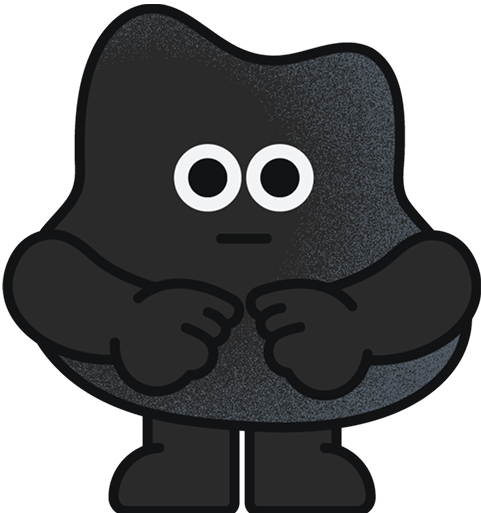
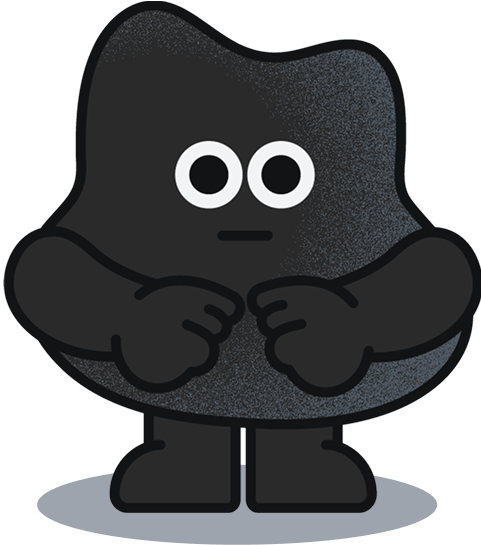
fix: button variant 추가, 방석 있는 이미지로 변경

diff --git a/src/components/Button.tsx b/src/components/Button.tsx
@@ -4,6 +4,7 @@ import { cn } from "@/utils/cn";
 
 interface ButtonProps extends ButtonHTMLAttributes<HTMLButtonElement> {
   asChild?: boolean;
+  variant?: "black" | "white";
 }
 
 export default function Button({
@@ -11,6 +12,7 @@ export default function Button({
   disabled,
   children,
   asChild = false,
+  variant = "black",
   ...props
 }: ButtonProps) {
   const Component = asChild ? Slot.Slot : "button";
@@ -18,11 +20,14 @@ export default function Button({
   return (
     <Component
       className={cn(
-        "w-fit px-9 py-4 rounded-[32px] transition-colors",
+        "w-fit px-9 py-4 rounded-[32px] transition-colors t-p-14-sb",
         "inline-flex items-center justify-center gap-[10px]",
         "shadow-[2px_2px_16px_0_rgba(0,0,0,0.4)]",
         {
-          "bg-neutral-800 text-neutral-100 active:bg-neutral-900": !disabled,
+          "bg-neutral-800 text-neutral-100 active:bg-neutral-900":
+            !disabled && variant === "black",
+          "bg-neutral-100 text-neutral-800 active:bg-neutral-300 active:shadow-[2px_2px_8px_0_rgba(0,0,0,0.4)]":
+            !disabled && variant === "white",
           "bg-neutral-400 text-neutral-500 cursor-not-allowed": disabled,
         },
         className

diff --git a/src/routes/mission/-components/MissionEmpty.tsx b/src/routes/mission/-components/MissionEmpty.tsx
@@ -1,3 +1,5 @@
+import Button from "@/components/Button";
+
 const STATUS_LABELS = {
   all: "더 이상 해결할",
   success: "성공한",
@@ -19,24 +21,19 @@ export default function MissionEmpty({
         alt="Mission Empty"
         className="w-[120px] h-[128px]"
       />
-      <div className="w-[100px] h-[20px] rounded-[50%] bg-neutral-400 mt-[-10px] z-[-1]" />
       <div className="flex flex-col items-center gap-2 mt-[17px]">
         <span className="t-p-18-sb text-neutral-100">
           {STATUS_LABELS[status]} 미션이 없어요
         </span>
-        <span className="t-p-14-m text-neutral-300">
+        <span className="t-p-14-m text-neutral-300 mb-[24px]">
           {status === "not_tried"
             ? "오늘의 문제를 모두 해결했어요!"
             : "완등하기 좋은 문제를 추천해드릴게요."}
         </span>
       </div>
-      <button
-        type="button"
-        className="t-p-14-sb bg-neutral-100 rounded-[32px] px-9 py-4 shadow-[2px_2px_16px_0_rgba(0,0,0,0.4)] mt-[24px]"
-        onClick={onClickRecommend}
-      >
+      <Button variant="white" onClick={onClickRecommend}>
         추천 문제 보기
-      </button>
+      </Button>
     </div>
   );
 }

diff --git a/src/routes/mission/$missionId/-components/MissionNotTriedReviewing.tsx b/src/routes/mission/$missionId/-components/MissionNotTriedReviewing.tsx
@@ -44,9 +44,13 @@ export default function MissionNotTriedReviewing({
       </div>
 
       <div className="flex justify-center gap-2 pt-4 pb-6">
-        <Button onClick={onFailed}>실패</Button>
         <Button onClick={onRetry}>재촬영</Button>
-        <Button onClick={onSuccess}>성공</Button>
+        <Button variant="white" onClick={onFailed}>
+          실패
+        </Button>
+        <Button variant="white" onClick={onSuccess}>
+          성공
+        </Button>
       </div>
     </>
   );

diff --git a/src/routes/mission/$missionId/-components/MissionResultView.tsx b/src/routes/mission/$missionId/-components/MissionResultView.tsx
@@ -150,13 +150,9 @@ export default function MissionResultView({
           </Button>
         )}
         {onRetry && (
-          <button
-            type="button"
-            className="t-p-14-sb bg-neutral-100 rounded-[32px] px-9 py-4 shadow-[2px_2px_16px_0_rgba(0,0,0,0.4)]"
-            onClick={onRetry}
-          >
+          <Button variant="white" onClick={onRetry}>
             다시 도전
-          </button>
+          </Button>
         )}
       </div>
     </>

diff --git a/src/routes/mission/$missionId/-components/MissionNotTriedFailed.tsx b/src/routes/mission/$missionId/-components/MissionNotTriedFailed.tsx
@@ -38,7 +38,9 @@ export default function MissionNotTriedFailed({
       </div>
 
       <div className="flex justify-center gap-2 px-[30px] pb-6">
-        <Button onClick={onRetry}>재도전</Button>
+        <Button variant="white" onClick={onRetry}>
+          다시 도전
+        </Button>
       </div>
     </>
   );
